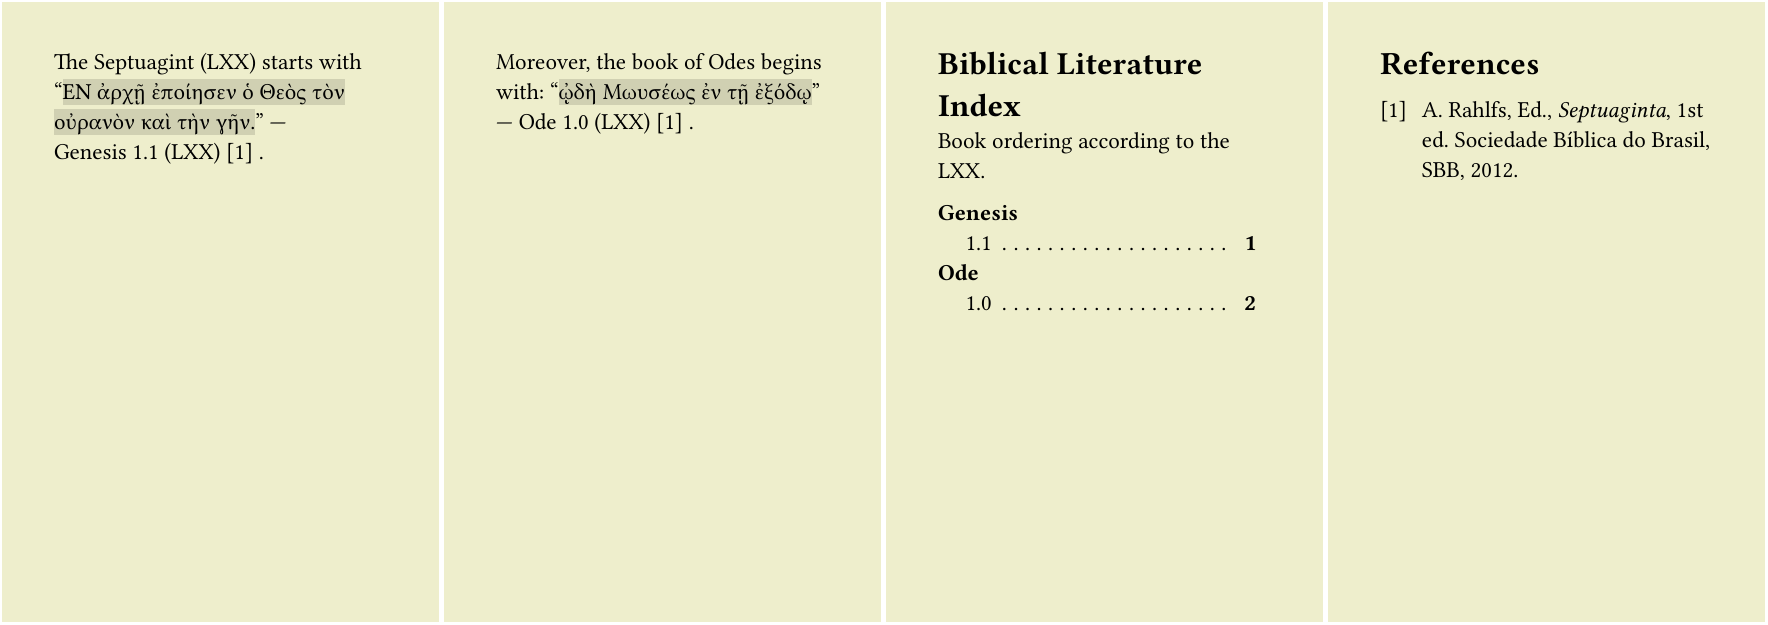
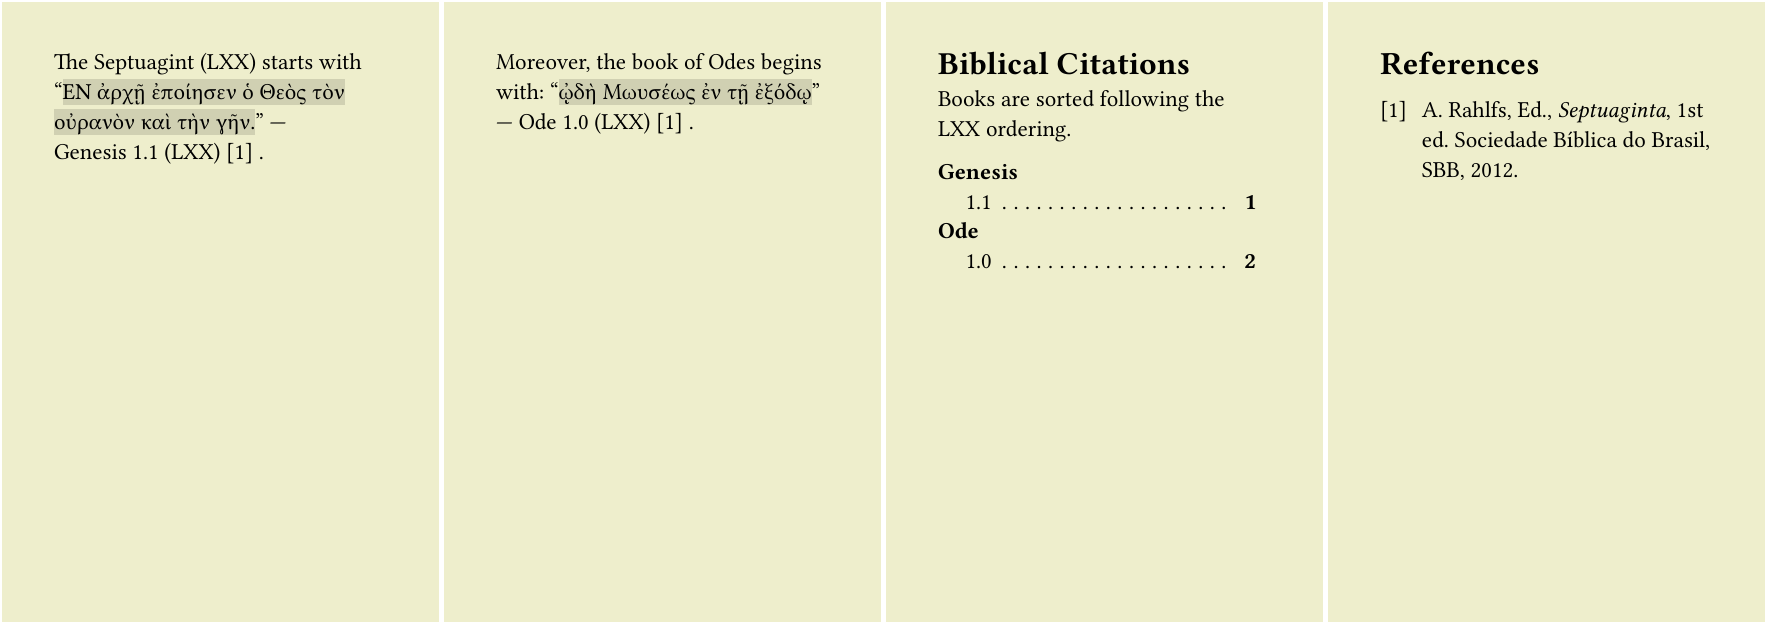
UPD the README.md and example files

Changed region(s): [[0.5288, 0.152, 0.7155, 0.456], [0.5911, 0.0912, 0.6844, 0.1216]]

diff --git a/packages/preview/blindex/0.1.0/README.md b/packages/preview/blindex/0.1.0/README.md
@@ -89,8 +89,8 @@ Moreover, the book of Odes begins with: #iQuot([ᾠδὴ Μωυσέως ἐν τ
 
 #pagebreak()
 
-= Biblical Literature Index
-Book ordering according to the LXX.
+= Biblical Citations
+Books are sorted following the LXX ordering.
 
 #mkIndex(cols: 1, sorting-tradition: "LXX")
 
